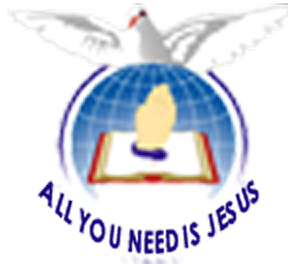
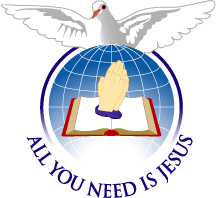
chore: updates home hero

Changed region(s): [[0.0, 0.0, 0.9722, 1.0], [0.8611, 0.0, 1.0, 0.0606]]

diff --git a/src/routes/+page.svelte b/src/routes/+page.svelte
@@ -1,6 +1,18 @@
 <script>
-	import { Blockquote, Hero, SEO } from '$lib/components';
-	import dove from '$lib/assets/images/dove.jpg?enhanced';
+	import { Blockquote, SEO } from '$lib/components';
+	import logo from '$lib/assets/logo-cropped.png?enhanced';
+	import sky from '$lib/assets/images/sky.jpg?enhanced';
+
+	const heroWords = [
+		'word of god',
+		'salvation',
+		'presence of god',
+		'healing',
+		'power of god',
+		'miracles'
+	];
+
+	const animationDuration = 25;
 </script>
 
 <SEO
@@ -9,7 +21,42 @@
 	url="/"
 ></SEO>
 
-<Hero img={dove} />
+<!-- <Hero img={dove} /> -->
+
+<section
+	class="relative hero min-h-[70vh] overflow-clip bg-base-200"
+	style="--duration:{animationDuration}s;--radius:130px"
+>
+	<enhanced:img
+		src={sky}
+		alt="Hero background"
+		class="absolute inset-0 h-full w-full object-cover"
+	/>
+	<div class="bg-opacity-30 z-[1] hero-overlay"></div>
+	<enhanced:img
+		src={logo}
+		alt="Logo"
+		class="absolute top-1/3 left-1/2 z-[1] w-[150px] -translate-x-1/2 -translate-y-1/3"
+	/>
+
+	<div class="relative -bottom-40 hero-content z-[2] text-center">
+		<h1 class="container-width font-semibold text-white">Adonai's Ministries International</h1>
+	</div>
+	{#each heroWords as word, i (word)}
+		<p
+			class="invisible absolute top-[30%] z-[1] animate-text-clock text-center text-xs text-white uppercase"
+			style="animation-delay:{(animationDuration / heroWords.length) * i}s"
+		>
+			{word}
+		</p>
+		<!-- <p
+			class="invisible absolute top-1/2 left-1/2 z-[2] -translate-x-1/2 -translate-y-1/2 animate-text-clock text-center text-white uppercase"
+			style="animation-delay:{(animationDuration / heroWords.length) * i}s"
+		>
+			{word}
+		</p> -->
+	{/each}
+</section>
 
 <section class="container-width mx-auto p-4 md:text-justify">
 	<p class="drop-cap">

diff --git a/src/lib/components/common/Hero.svelte b/src/lib/components/common/Hero.svelte
@@ -1,7 +1,11 @@
 <script lang="ts">
 	import bible from '$lib/assets/images/bible.jpg?enhanced';
 
-	let { title = 'Adonai Ministries International', img = bible } = $props();
+	let {
+		title = 'Adonai Ministries International',
+		img = bible,
+		classes = null
+	}: { title?: string; img?: any; classes?: { text?: string } | null } = $props();
 </script>
 
 <!-- <section style="background-image: url({img});" class="relative hero min-h-[70vh] bg-base-200">
@@ -20,7 +24,7 @@
 
 	<div class="bg-opacity-30 z-[1] hero-overlay"></div>
 	<div class="relative hero-content z-[2] text-center">
-		<h1 class="container-width text-5xl font-bold text-white xl:text-7xl">
+		<h1 class="container-width text-5xl font-bold text-white xl:text-7xl {classes?.text || ''}">
 			{title}
 		</h1>
 	</div>

diff --git a/src/app.css b/src/app.css
@@ -34,6 +34,17 @@
 	--font-weight-normal: 500;
 	--font-weight-semibold: 600;
 	--font-weight-bold: 700;
+
+	--animate-text-clock: text-clock var(--duration, 25s) infinite linear;
+	@keyframes text-clock {
+		0% {
+			transform: rotate(0deg) translateY(var(--radius, 100px)) rotate(0deg);
+			visibility: visible;
+		}
+		100% {
+			transform: rotate(360deg) translateY(var(--radius, 100px)) rotate(-360deg);
+		}
+	}
 }
 
 @layer base {

diff --git a/src/routes/about/selva-manuel/+page.svelte b/src/routes/about/selva-manuel/+page.svelte
@@ -9,7 +9,7 @@
 	url="/about/selva-manuel"
 ></SEO>
 
-<Hero title="A servant of the most high" img={selva} />
+<Hero title="A servant of the most high" img={selva} classes={{ text: ' mt-[200px] lg:mt-60' }} />
 
 <section class="container-width mx-auto p-4 md:text-justify">
 	<section>
